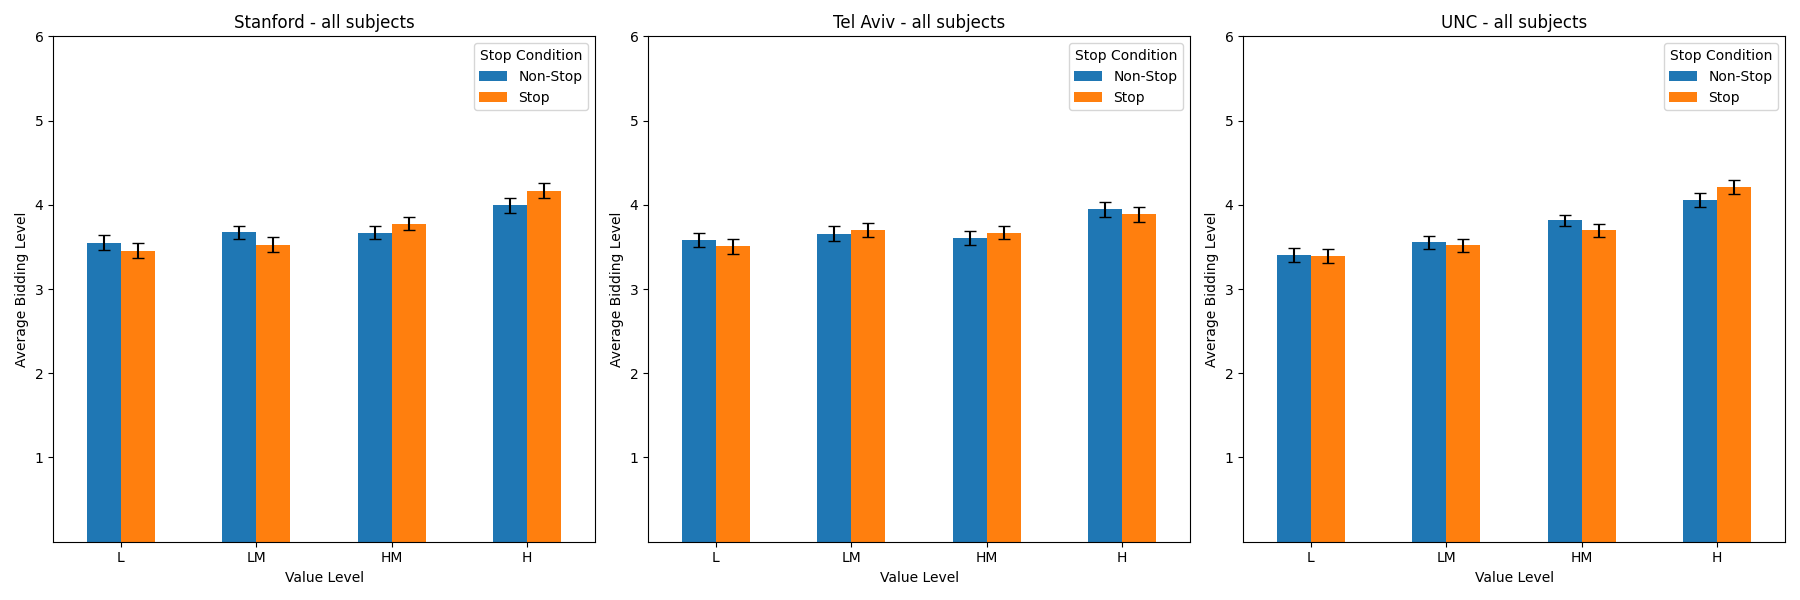
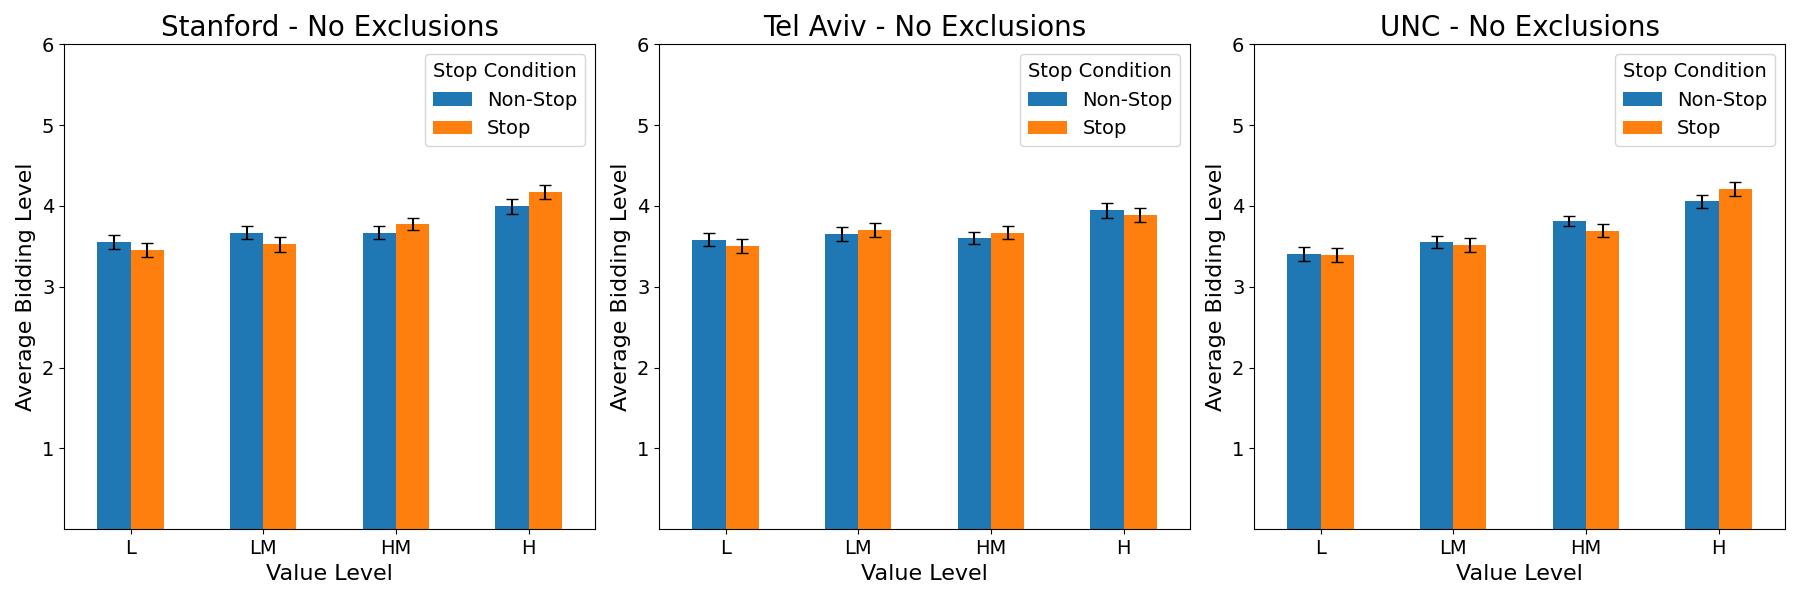
feat(change): Changed figure font sizes and names

diff --git a/src/inhibition_induced_devaluation/utils/utils.py b/src/inhibition_induced_devaluation/utils/utils.py
@@ -488,13 +488,22 @@ def create_devaluation_figure(
         fig, ax = plt.subplots(figsize=(10, 6)) # If ax is None create a new figure
     avg_pivot.plot(kind="bar", yerr=sem_pivot, capsize=4, ax=ax)
 
-
-    ax.set_title(f"{location} - {subject_type} subjects")
-    ax.set_xlabel("Value Level")
-    ax.set_ylabel("Average Bidding Level")
-    ax.set_xticklabels(ax.get_xticklabels(), rotation=0)
+    if subject_type == "included":
+        ax.set_title(f"{location}", fontsize=20)
+    elif subject_type == "all":
+        ax.set_title(f"{location} - No Exclusions", fontsize=20)
+    else:
+        ax.set_title(f"{location} - Phase 1 Explicit Learners", fontsize=20)
+    ax.set_xlabel("Value Level", fontsize=16)
+    ax.set_ylabel("Average Bidding Level", fontsize=16)
+    ax.set_xticklabels(ax.get_xticklabels(), rotation=0, fontsize=14)
     ax.set_yticks(np.arange(1, 7, 1))
-    ax.legend(title="Stop Condition")
+    ax.tick_params(axis='y', labelsize=14)
+    leg = ax.legend(title="Stop Condition", fontsize=14, title_fontsize=14)
+    if leg:
+        for text in leg.get_texts():
+            text.set_fontsize(14)
+        leg.get_title().set_fontsize(14)
 
     return ax  # Return the axes object, it can be used if no ax provided.
 
@@ -748,14 +757,12 @@ def create_stopping_results_tables(data_dir: Path, table_dir: Path,
     tables2.to_csv(table_dir / "tableS4.csv", index=False)
     tables3.to_csv(table_dir / "tableS5.csv", index=False)
 
-def plot_figure2_and_s2(data, filename, ylim: Tuple[float, float] = (-4, 4)):
+def plot_figure2(data, filename, ylim: Tuple[float, float] = (-4, 4)):
     plt.figure(figsize=(10, 6))
 
     # Determine the order of samples
     if 'DR1' in data['Sample'].unique():
         sample_order = ['DR1', 'DR2']
-    elif 'CR6' in data['Sample'].unique():
-        sample_order = ['CR6', 'CR7']
     else:
         sample_order = ['Stanford', 'Tel Aviv', 'UNC']
 
@@ -777,14 +784,23 @@ def plot_figure2_and_s2(data, filename, ylim: Tuple[float, float] = (-4, 4)):
         order=sample_order
     )
 
-    plt.xlabel("Sample")
-    plt.ylabel("Devaluation")
+    plt.xlabel("Sample", fontsize=16)
+    plt.ylabel("Devaluation", fontsize=16)
     plt.ylim(ylim)
     plt.axhline(y=0, color='red', linestyle='--', linewidth=1)
+    plt.xticks(fontsize=14)
+    plt.yticks(fontsize=14)
+    ax = plt.gca()
+    # If a legend is present, set its font size
+    leg = ax.get_legend()
+    if leg:
+        for text in leg.get_texts():
+            text.set_fontsize(14)
+        leg.get_title().set_fontsize(14)
     plt.savefig(filename, dpi=300, bbox_inches="tight")
     plt.close()
 
-def create_figure2_and_s2(data_dir: Path, figure_dir: Path):
+def create_figure2(data_dir: Path, figure_dir: Path):
     """
     Create stripplot visualizations of IID effects by location
     with individual subject points and confidence intervals.
@@ -814,13 +830,9 @@ def create_figure2_and_s2(data_dir: Path, figure_dir: Path):
     plot_df = pd.DataFrame(plot_data)
 
     # Create Figure 2 (Stanford, Tel Aviv, UNC)
-    plot_figure2_and_s2(plot_df[plot_df['Sample'].isin(['Stanford',
+    plot_figure2(plot_df[plot_df['Sample'].isin(['Stanford',
                                                         'Tel Aviv', 'UNC'])],
                   figure_dir / "figure2.png")
-
-    # Create Figure S2 (DR1, DR2)
-    plot_figure2_and_s2(plot_df[plot_df['Sample'].isin(['DR1', 'DR2'])],
-                  figure_dir / "figureS4.png")
 
 
 def find_devaluation_counts(positive_counts: float, negative_counts: float,
@@ -1164,7 +1176,7 @@ def analyze_iid_effects_by_site(
                                             "all",
                                             include_dr=True,
                                             main_figure_name="figureS1.png",
-                                            dr_figure_name="figureS5.png")
+                                            dr_figure_name="figureS4.png")
         create_combined_devaluation_figures(data_phase1,
                                             figure_dir,
                                             "phase1",

diff --git a/src/inhibition_induced_devaluation/main.py b/src/inhibition_induced_devaluation/main.py
@@ -5,7 +5,7 @@ from inhibition_induced_devaluation.utils.utils import (
     average_bidding_across_sites,
     average_bidding_for_stanford,
     combine_location_data,
-    create_figure2_and_s2,
+    create_figure2,
     create_stopping_results_tables,
     get_both_exclusions,
     get_iqr_exclusions,
@@ -31,7 +31,7 @@ def main():
         },
     )
     # Create Figure 2
-    create_figure2_and_s2(data_dir, figure_dir)
+    create_figure2(data_dir, figure_dir)
 
     # Save exclusion summary
     for location, excluded_subjects in behavioral_exclusions.items():
